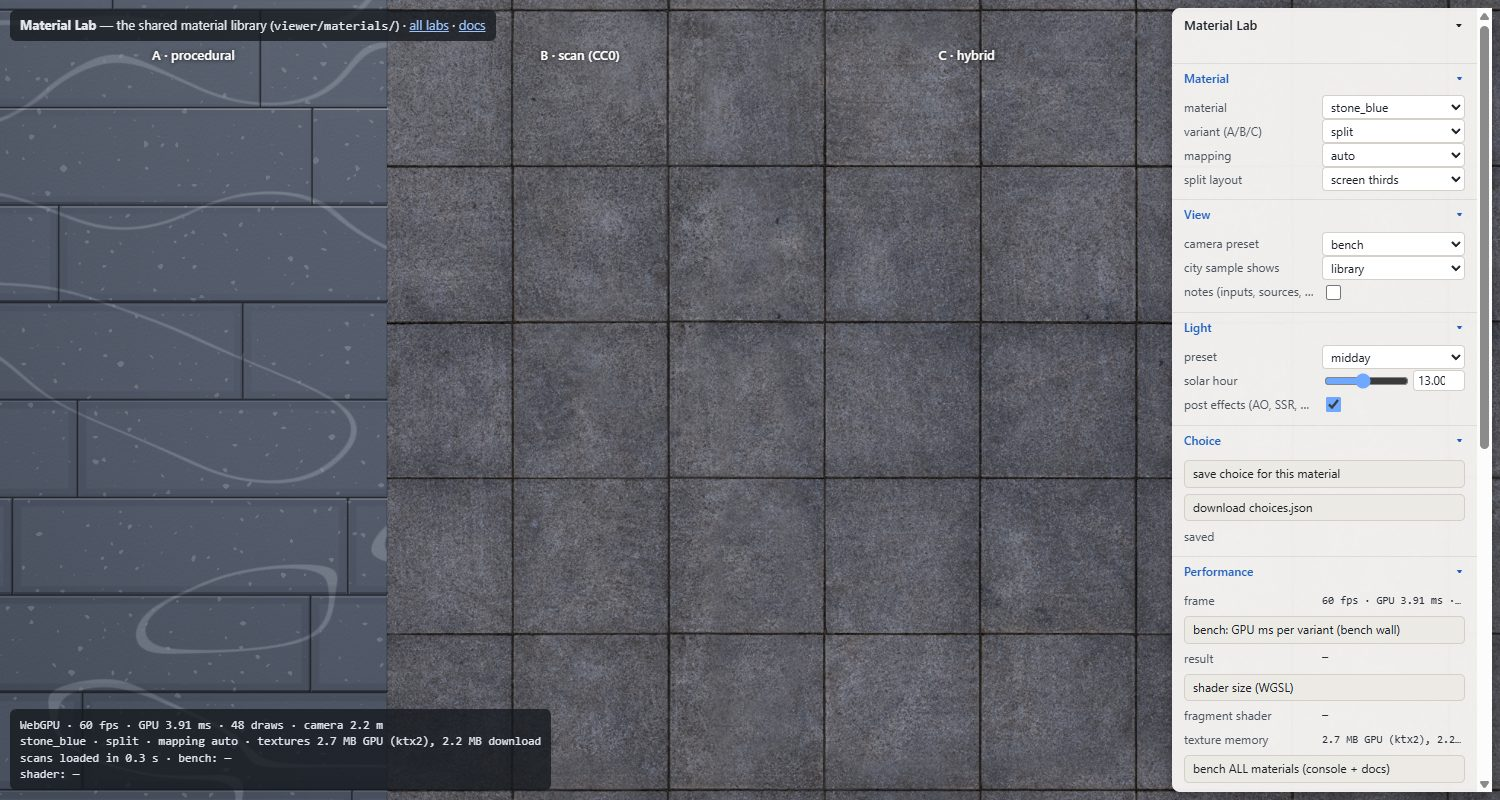
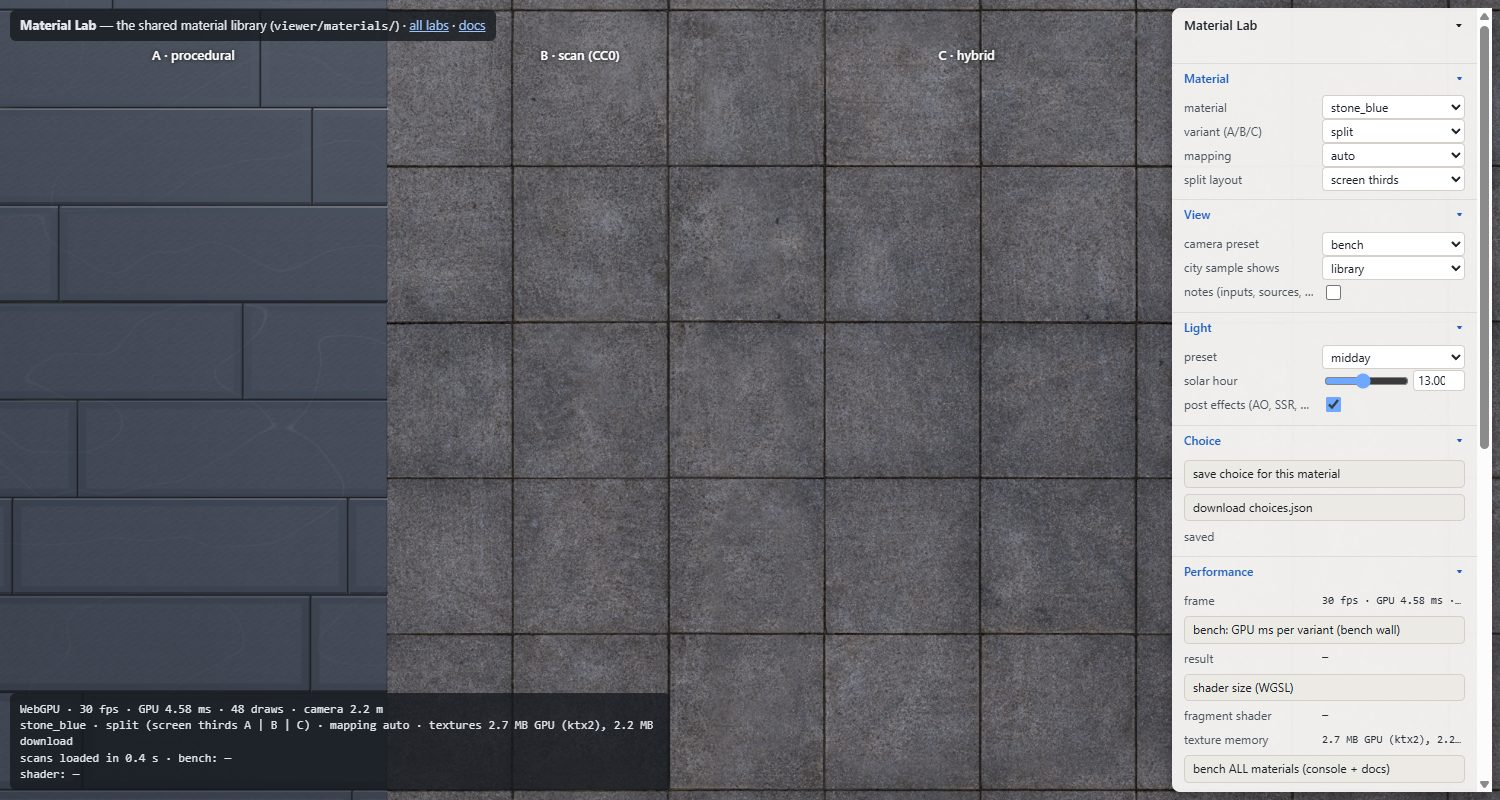
Material lab: bench (single draw, frozen shadows, min of medians) + results in docs/MATERIALS.md, layout listen, slate lichen, render peel, screenshots in docs/materials/

diff --git a/labs/material-lab.js b/labs/material-lab.js
@@ -188,7 +188,7 @@ const fm = ui.addFolder("Material");
 fm.add(S, "material", MATERIAL_NAMES).name("material").onChange(() => { loadChoice(); applyMaterial(); }).listen();
 fm.add(S, "variant", ["proc", "scan", "hybrid", "split"]).name("variant (A/B/C)").onChange(applyMaterial).listen();
 fm.add(S, "mapping", ["auto", "world", "uv", "triplanar"]).name("mapping").onChange(applyMaterial).listen();
-fm.add(S, "layout", ["screen thirds", "three galleries"]).name("split layout").onChange(() => { applyMaterial(); goView(S.view); });
+fm.add(S, "layout", ["screen thirds", "three galleries"]).name("split layout").onChange(() => { applyMaterial(); goView(S.view); }).listen();
 const fv = ui.addFolder("View");
 fv.add(S, "view", Object.keys(VIEWS)).name("camera preset").onChange(goView).listen();
 S.cityShow = "library";
@@ -274,25 +274,33 @@ function sampleGpu() {
   }).catch(() => {}).finally(() => { gpu.pending = false; });
 }
 const wait = (ms) => new Promise((r) => setTimeout(r, ms));
-// the bench draws ONLY the full-screen wall, REPS times per frame (no post, no gallery, no ground), so the material's
-// cost dominates the timestamp noise of a shared GPU; result = median ms per draw over ~2 s
-const REPS = 12;
+// the bench draws ONLY the full-screen wall (no post, no gallery, no ground, shadow maps frozen), so the material's
+// cost dominates; result = the lowest of three 1.5 s medians (other tabs on the GPU only add time)
+const REPS = 1;                         // >1 piles timestamp queries up across frames (resolveTimestampsAsync then sums several frames)
 async function measure(material) {
   benchWall.material = material;
   await renderer.compileAsync(scene, camera).catch(() => {});
-  await wait(400); gpu.samples.length = 0; await wait(1800);
-  const s = [...gpu.samples].sort((a, b) => a - b);
-  return s.length ? s[Math.floor(s.length / 2)] / REPS : NaN;
+  // three windows, the lowest median: other tabs / agents on the same GPU only ever ADD time
+  await wait(400);
+  let best = Infinity;
+  for (let k = 0; k < 3; k++) {
+    gpu.samples.length = 0; await wait(1500);
+    const s = gpu.samples.slice(1).sort((a, b) => a - b);                                 // the first may straddle the swap
+    if (s.length >= 2) best = Math.min(best, s[Math.floor(s.length / 2)]);
+  }
+  return Number.isFinite(best) ? best / REPS : NaN;
 }
 const plain = new THREE.MeshStandardNodeMaterial({ color: 0x777777, roughness: 0.8 });
 let benching = false;
 async function benchOne(name) {
   const prevView = S.view; goView("bench"); S.post = false; S.reps = REPS;
   const vis = [gallery.visible, ground.visible]; gallery.visible = ground.visible = false; benchWall.castShadow = false;
+  const shadows = []; scene.traverse((o) => { if (o.isLight && o.shadow) { shadows.push([o.shadow, o.shadow.autoUpdate]); o.shadow.autoUpdate = false; } });   // no shadow passes in the reps
   const res = { base: await measure(plain) };
   for (const v of hasScan(name) ? ["proc", "scan", "hybrid"] : ["proc"]) res[v] = await measure(mat(name, v, "world"));
   res.triplanar = await measure(mat(name, "proc", "triplanar"));
   S.post = true; S.reps = 1; goView(prevView); applyMaterial(); [gallery.visible, ground.visible] = vis;
+  for (const [sh, a] of shadows) { sh.autoUpdate = a; sh.needsUpdate = true; }
   return res;
 }
 async function bench() {
@@ -337,7 +345,7 @@ pipe.setExposureScale(lighting.exposureScale); pipe.look(preset);
 const hazeHook = (rt, d, size) => lighting.hazeHook(rt, d, size);
 applyMaterial();
 goView(VIEWS[S.view] ? S.view : "5m");
-window.lab = { renderer, scene, camera, controls, lighting, S, goView, applyMaterial, bench, benchAll, shaderSize, looks, choices, mat, SCANS, gpu };
+window.lab = { renderer, scene, camera, controls, lighting, S, goView, applyMaterial, bench, benchAll, benchOne, shaderSize, looks, choices, mat, SCANS, gpu };
 
 let last = performance.now(), frames = 0, fpsAcc = 0, fpsN = 0, fps = 0;
 renderer.setAnimationLoop(() => {
@@ -354,7 +362,8 @@ renderer.setAnimationLoop(() => {
   if (++frames % 10 === 1) {
     const r = renderer.info.render;
     S.stats = `${fps.toFixed(0)} fps · GPU ${gpu.avg.toFixed(2)} ms · ${r.drawCalls ?? r.calls} draws`;
-    $info.textContent = `${backend} · ${S.stats} · camera ${dist.toFixed(1)} m\n${S.material} · ${hasScan(S.material) ? S.variant : "proc"} · mapping ${S.mapping} · textures ${S.tex}` +
+    const lay = S.variant === "split" ? (S.layout === "three galleries" ? " (left A proc · middle B scan · right C hybrid)" : " (screen thirds A | B | C)") : "";
+    $info.textContent = `${backend} · ${S.stats} · camera ${dist.toFixed(1)} m\n${S.material} · ${hasScan(S.material) ? S.variant : "proc"}${lay} · mapping ${S.mapping} · textures ${S.tex}` +
       `\nscans loaded in ${(scanMs / 1000).toFixed(1)} s · bench: ${S.bench}\nshader: ${S.shader}`;
   }
 });

diff --git a/viewer/materials/library.js b/viewer/materials/library.js
@@ -83,7 +83,7 @@ export const DEFS = {
   render_white: { kind: "render", damp: true, salt: false, streaks: true, label: "Render, white", unit: 0.02,
     params: { color: "#e0dcd2", color2: "#b9b4aa", cracks: [0.2, 0, 1, 0.01] }, surface: render },
   render_painted: { kind: "render", damp: true, salt: false, streaks: true, label: "Render, painted", unit: 0.02, painted: true,
-    params: { color: "#d8c49b", color2: "#bdb8ad", cracks: [0.15, 0, 1, 0.01], peel: [0.15, 0, 1, 0.01] }, surface: render },
+    params: { color: "#d8c49b", color2: "#bdb8ad", cracks: [0.15, 0, 1, 0.01], peel: [0.06, 0, 1, 0.01] }, surface: render },
   slate: { kind: "roof", label: "Slate", scan: true, unit: 0.2,
     params: { color: "#3e434a", color2: "#4a4d45", course: [0.16, 0.1, 0.3, 0.005], length: [0.25, 0.15, 0.45, 0.005], joint: [0.004, 0.001, 0.01, 0.0005], lap: [0.012, 0, 0.02, 0.0005] },
     surface: slate },
@@ -249,8 +249,8 @@ function slate(c) {
   const worn = float(1).sub(smoothstep(float(0.0), float(0.006), k.fv.mul(U.course))).mul(U.wear).mul(fine);
   col = mix(col, col.mul(1.6), worn.mul(0.5));
   // lichen: small pale rosettes
-  const lich = smoothstep(0.82, 0.86, n01(P.x.mul(9.0), P.y.mul(9.0), P.z.mul(9.0))).mul(U.moss).mul(fine);
-  col = mix(col, L("#a9a58a"), lich.mul(0.7));
+  const lich = smoothstep(0.8, 0.86, n01(P.x.mul(26.0), P.y.mul(26.0), P.z.mul(26.0))).mul(U.moss).mul(fine);
+  col = mix(col, L("#a9a58a"), lich.mul(0.35));
   const joint = max(ju, lowEdge.mul(0.7));
   col = mix(col, col.mul(0.35), joint);
   col = col.mul(float(1).sub(smoothstep(0.78, 1.0, k.fv).mul(0.3).mul(fine)));               // shade under the next course's edge

diff --git a/docs/MATERIALS.md b/docs/MATERIALS.md
@@ -84,7 +84,46 @@ GPU ms per frame over a plain `MeshStandardNodeMaterial` (WebGPU timestamp queri
 non-empty lines / KB of the generated WGSL fragment shader. Texture memory: KTX2 transcodes to BC7 / ASTC, 1 byte per
 texel, 2 maps x 1024² + mips = 2.7 MB per scan material on the GPU (the WebP fallback would be 11 MB as RGBA8).
 
-See the table in "Bench results" below (filled from the lab's `window.benchResult`).
+### Bench results (2026-11-05, the owner's machine, WebGPU, shared with other tabs)
+
+Whole-frame GPU ms with ONLY the 30 x 30 m wall on screen (1500 x 800 canvas at DPR 1.5 = 2.7 Mpx, post off,
+shadow maps frozen), lowest of three 1.5 s medians; "plain" = a `MeshStandardNodeMaterial` with a colour. Timestamps
+come in ~0.065 ms steps and the GPU may downclock at this load: read differences of less than ~0.15 ms as equal. The
+material's own cost per full screen = column - plain (at 1080p, x 0.75). Shader = non-empty lines / size of the WGSL
+fragment shader (lighting included). Textures: GPU MB (BC7 / ASTC) / download MB (KTX2) per scan material.
+
+| Material | plain | proc | scan | hybrid | proc triplanar | WGSL proc | WGSL scan | WGSL hybrid | textures |
+|---|---|---|---|---|---|---|---|---|---|
+| brick_red_brussels | 1.31 | 2.69 | 2.42 | 2.69 | 2.62 | 423 / 35 KB | 347 / 25 KB | 441 / 36 KB | 2.67 / 2.37 |
+| brick_yellow | 1.31 | 2.69 | — | — | 2.75 | 423 / 35 KB | — | — | 0 |
+| brick_dark | 1.31 | 2.56 | — | — | 2.69 | 423 / 35 KB | — | — | 0 |
+| mortar | 1.38 | 2.42 | — | — | 2.36 | 343 / 26 KB | — | — | 0 |
+| stone_white | 1.31 | 2.69 | 2.49 | 2.75 | 3.08 | 421 / 35 KB | 347 / 25 KB | 439 / 37 KB | 2.67 / 1.54 |
+| stone_blue | 1.31 | 2.82 | 2.16 | 2.82 | 3.54 | 579 / 40 KB | 339 / 24 KB | 597 / 42 KB | 2.67 / 2.23 |
+| render_white | 1.31 | 2.62 | — | — | 2.95 | 527 / 33 KB | — | — | 0 |
+| render_painted | 1.31 | 2.69 | — | — | 3.41 | 549 / 37 KB | — | — | 0 |
+| slate | 1.31 | 2.49 | 1.51 | 2.42 | 2.62 | 352 / 26 KB | 307 / 20 KB | 370 / 28 KB | 2.67 / 2.51 |
+| roof_tiles_red | 1.31 | 2.42 | — | — | 2.56 | 333 / 23 KB | — | — | 0 |
+| zinc_roof | 1.31 | 2.56 | — | — | 2.69 | 364 / 27 KB | — | — | 0 |
+| copper_patina | 1.31 | 2.62 | 2.49 | 2.69 | 2.82 | 367 / 29 KB | 344 / 24 KB | 403 / 32 KB | 2.67 / 2.18 |
+| painted_metal_white | 1.31 | 2.29 | — | — | 2.69 | 382 / 28 KB | — | — | 0 |
+| cast_iron_green | 1.31 | 2.56 | — | — | 2.29 | 315 / 24 KB | — | — | 0 |
+| wood_frame_white | 1.44 | 2.69 | — | — | 2.95 | 338 / 26 KB | — | — | 0 |
+| wood_frame_dark | 1.44 | 2.69 | — | — | 2.95 | 335 / 26 KB | — | — | 0 |
+| glass_window | 1.70 | 2.56 | — | — | 2.29 | 290 / 21 KB | — | — | 0 |
+| cobbles | 1.70 | 2.49 | 1.44 | 2.82 | 4.39 | 633 / 40 KB | 307 / 20 KB | 651 / 42 KB | 2.67 / 2.52 |
+| paving_concrete | 1.64 | 2.75 | 1.97 | 2.82 | 3.02 | 371 / 28 KB | 307 / 20 KB | 389 / 30 KB | 2.67 / 2.20 |
+| asphalt | 1.31 | 2.36 | 2.16 | 2.49 | 2.82 | 514 / 33 KB | 324 / 22 KB | 549 / 36 KB | 2.67 / 2.56 |
+| gravel_path | 1.25 | 2.42 | — | — | 3.15 | 492 / 34 KB | — | — | 0 |
+| lawn_edge | 1.31 | 2.29 | — | — | 2.88 | 344 / 27 KB | — | — | 0 |
+
+Reading: every procedural material costs about +1.0 to +1.5 ms per FULL screen of 2.7 Mpx over a flat colour (a
+city frame has each surface on a fraction of the screen, and the façades today already pay a similar shader); the scans
+are cheaper per pixel (2 texture fetches instead of the pattern maths: -0.3 to -1 ms per full screen) but cost
+2.7 MB GPU and ~2.3 MB download each; hybrid = proc + scan (both evaluated, blended by distance); triplanar adds
++0.1 to +1.9 ms (three pattern evaluations; cobbles worst). About half of each procedural material's cost is the shared
+weathering (`finish()`: macro tone, soiling, streaks, damp, salt, moss): it was 2x before it moved to 2D value noise in
+the world frame (the first measurement, 3.65 ms for brick, is why).
 
 ## City sample: today -> library
 
